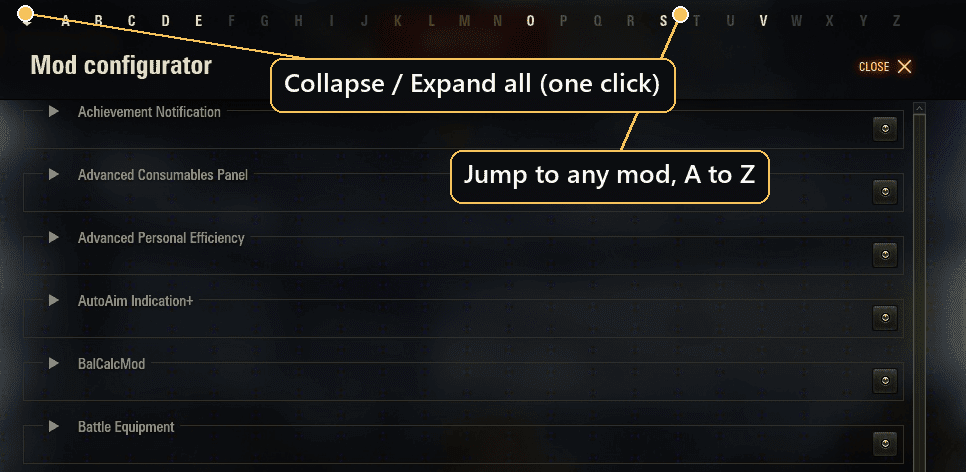
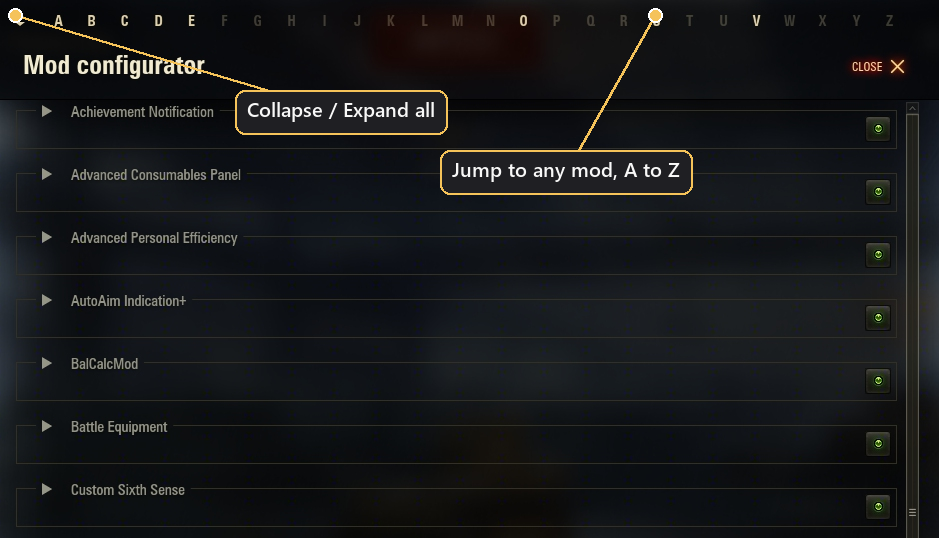
Update screenshots and add backward-compatibility notes

diff --git a/README.md b/README.md
@@ -23,6 +23,8 @@ See [`CHANGELOG.md`](./CHANGELOG.md) for the full list, and [`docs/LIVE_MENU_UPD
 
 ![Per-mod settings with image preview and language switch](./assets/aslainMenu_3.png)
 
+![Sub-options grouped under a master toggle - they grey out while it is off](./assets/aslainMenu_4.png)
+
 ## Using it in your mod
 
 Import the fork first, with a fallback to izeberg, so your mod also runs where only the original is installed. Importing `gui.aslainMenu` first means it wins when both are present:
@@ -56,6 +58,46 @@ templates.createControlsGroup(
     ],
 )
 ```
+
+### Staying compatible with plain izeberg
+
+The import above lets your mod *run* on either menu, but the features below exist **only** on `gui.aslainMenu`. Calling them on plain izeberg raises an error (and can blank the whole settings window), so feature-detect each one with `hasattr(...)` and skip it when missing. A skipped control is simply left out of the template - no error, and no empty slot: the layout just closes up.
+
+```python
+column = [
+    templates.createCheckbox('Sixth Sense enabled', 'enabled', True),
+    templates.createDropdown('Icon', 'icon', ICON_NAMES, 0),
+]
+
+# createImage is aslainMenu-only -> add the preview only when available,
+# otherwise it is simply omitted (no error, no empty gap).
+if hasattr(templates, 'createImage'):
+    column.append(templates.createImage('myicons/%s.png' % ICON_NAMES[0],
+                                        containerHeight=96, align='center'))
+
+# createControlsGroup (grey-out sub-options under a master) is aslainMenu-only too.
+master = templates.createCheckbox('Enable extras', 'extrasOn', True)
+children = [templates.createSlider('Glow size', 'glow', 24, 8, 64, 1)]
+if hasattr(templates, 'createControlsGroup'):
+    column += templates.createControlsGroup(master, children)  # grouped + greyed when off
+else:
+    column += [master] + children                              # flat fallback on izeberg
+```
+
+Guard the singleton's new methods the same way, e.g. the live image preview:
+
+```python
+if hasattr(g_modsSettingsApi, 'updateImage'):
+    g_modsSettingsApi.registerLiveSettingsChange(MOD_LINKAGE, onLiveChange)
+    # inside onLiveChange call g_modsSettingsApi.updateImage(MOD_LINKAGE, 'icon', newSource)
+```
+
+**aslainMenu-only - guard before use:**
+
+- `templates`: `createImage`, `createControlsGroup`
+- `g_modsSettingsApi`: `updateImage`, `registerLiveSettingsChange` / `unregisterLiveSettingsChange`, `notifyLiveSettingsChange`, `reloadModTemplate`, `setModCollapsed`, and the `onLiveSettingsChange` event
+
+Everything else (checkboxes, sliders, dropdowns, radio button groups, step sliders, hotkeys, color choice, range slider, labels, `setModTemplate`, `getModSettings`, ...) exists on both menus, so it needs no guard.
 
 ## Dependencies
 
